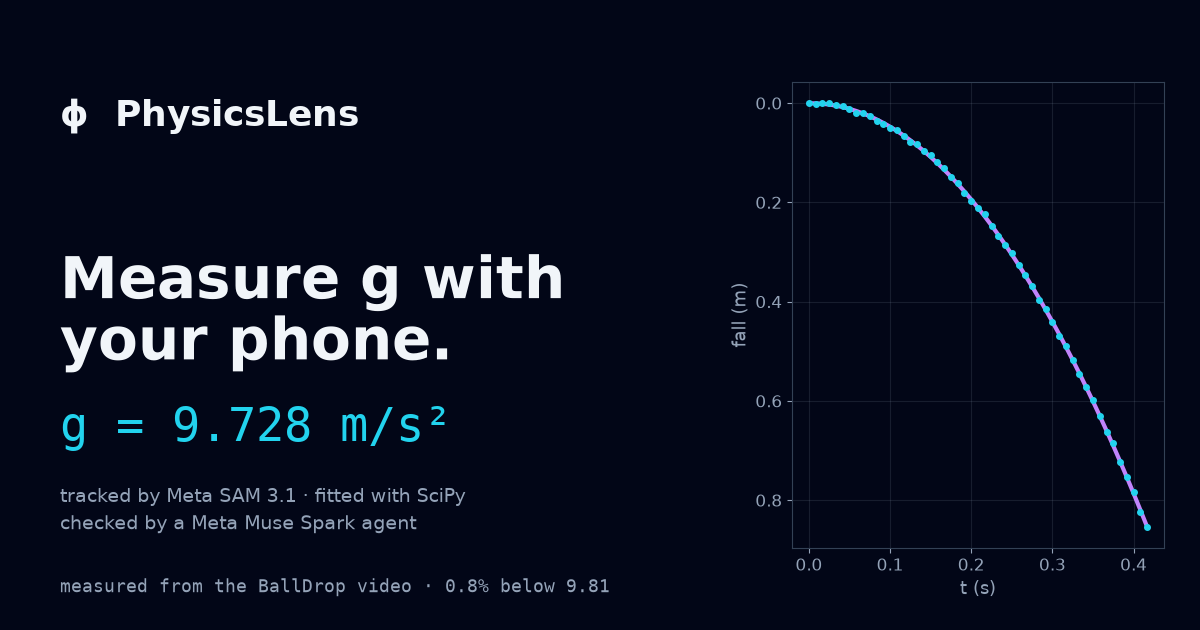
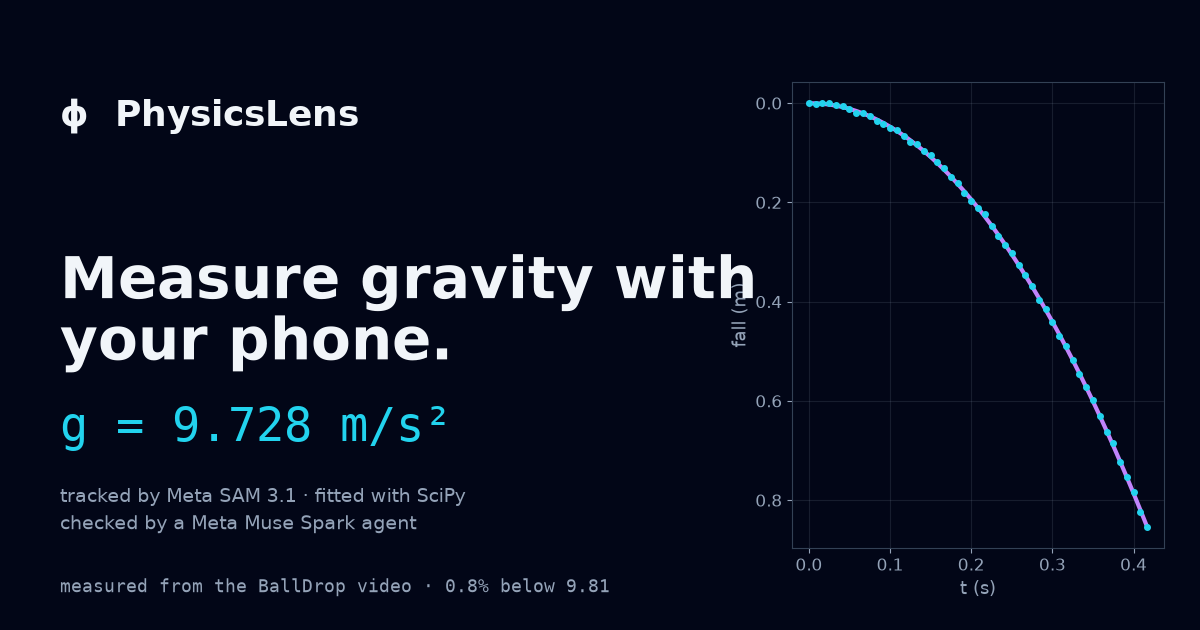
fix: SEO review: no silent site URL, Latin-only fonts, H1 says gravity
- prerender.mjs fails without SITE_URL (an https origin) instead of writing a
  placeholder host into the canonical link, og tags, sitemap and JSON-LD; the
  sitemap lastmod is the build date.
- The landing ships only the Latin Inter and JetBrains Mono files.
- JSON-LD: sameAs instead of codeRepository (not a SoftwareApplication field).
- H1 'Measure gravity with your phone.' and 'From the video' in the hero, to
  match the title and og:title; og:locale; the og image says the same.
- On the public page the hero button reads 'Get the code' (it scrolls there).

Changed region(s): [[0.3392, 0.3921, 0.6475, 0.5127]]

diff --git a/web/landing.html b/web/landing.html
@@ -14,14 +14,15 @@
     <meta property="og:type" content="website" />
     <meta property="og:site_name" content="PhysicsLens" />
     <meta property="og:url" content="__SITE_URL__/" />
-    <meta property="og:title" content="PhysicsLens: Measure g with your phone" />
+    <meta property="og:title" content="PhysicsLens: Measure gravity with your phone" />
+    <meta property="og:locale" content="en_US" />
     <meta property="og:description" content="Film a physics experiment. PhysicsLens tracks the ball, fits the physics with SciPy, and a Meta Muse Spark agent checks the result." />
     <meta property="og:image" content="__SITE_URL__/og-image.png" />
     <meta property="og:image:width" content="1200" />
     <meta property="og:image:height" content="630" />
     <meta property="og:image:alt" content="A tracked ball drop with its fitted fall curve, and g = 9.728 m/s² measured from the BallDrop video" />
     <meta name="twitter:card" content="summary_large_image" />
-    <meta name="twitter:title" content="PhysicsLens: Measure g with your phone" />
+    <meta name="twitter:title" content="PhysicsLens: Measure gravity with your phone" />
     <meta name="twitter:description" content="Phone video in, g out: tracked by Meta SAM 3.1, fitted with SciPy, checked by a Meta Muse Spark agent." />
     <meta name="twitter:image" content="__SITE_URL__/og-image.png" />
     <!--jsonld-->

diff --git a/web/src/pages/HomePage.tsx b/web/src/pages/HomePage.tsx
@@ -29,15 +29,15 @@ export default function HomePage({ local = true }: { local?: boolean }) {
         <div>
           <p className="label">Measure · fit · check</p>
           <h1 ref={heading} tabIndex={-1} className="mt-3 text-4xl font-semibold tracking-tight focus:outline-none sm:text-5xl lg:text-6xl">
-            Measure g with your phone.
+            Measure gravity with your phone.
           </h1>
           <p className="mt-4 max-w-xl text-lg leading-relaxed text-slate-300">
-            Film a ball drop, a throw or a pendulum. PhysicsLens tracks the ball, fits the physics with SciPy, and a Meta Muse Spark agent checks the fit before you see a
+            Film a ball drop, a throw or a pendulum. From the video, PhysicsLens tracks the ball, fits the physics with SciPy, and a Meta Muse Spark agent checks the fit before you see a
             number.
           </p>
           <div className="mt-6 flex flex-wrap gap-3">
             <a href={appLink("/analyze")} className="btn min-h-11 bg-gradient-to-r from-cyan-400 to-violet-500 px-5 text-base font-semibold text-slate-950 hover:brightness-110">
-              Analyze a video
+              {local ? "Analyze a video" : "Get the code"}
             </a>
             {local && <a href={href("/history")} className="btn-ghost min-h-11 px-5 text-base">See past runs</a>}
           </div>

diff --git a/web/src/App.tsx b/web/src/App.tsx
@@ -8,7 +8,7 @@ const HomePage = lazy(() => import("./pages/HomePage"));
 const HistoryPage = lazy(() => import("./pages/HistoryPage"));
 const RunDetailPage = lazy(() => import("./pages/RunDetailPage"));
 
-const TITLES = { home: "PhysicsLens: Measure g with your phone", analyze: "Analyze a video · PhysicsLens", history: "History · PhysicsLens", run: "Run · PhysicsLens" };
+const TITLES = { home: "PhysicsLens: Measure gravity with your phone", analyze: "Analyze a video · PhysicsLens", history: "History · PhysicsLens", run: "Run · PhysicsLens" };
 
 export default function App() {
   const route = useRoute();

diff --git a/web/src/landing/fonts.css b/web/src/landing/fonts.css
@@ -1,0 +1,10 @@
+/* Latin only for the public page: the other Inter subsets would ship unused (π and √ fall back to system fonts). */
+@font-face {
+  font-family: "Inter Variable";
+  font-style: normal;
+  font-display: swap;
+  font-weight: 100 900;
+  src: url("@fontsource-variable/inter/files/inter-latin-wght-normal.woff2") format("woff2-variations");
+  unicode-range: U+0000-00FF, U+0131, U+0152-0153, U+02BB-02BC, U+02C6, U+02DA, U+02DC, U+0304, U+0308, U+0329, U+2000-206F, U+20AC, U+2122, U+2191,
+    U+2193, U+2212, U+2215, U+FEFF, U+FFFD;
+}

diff --git a/web/src/landing/server.tsx b/web/src/landing/server.tsx
@@ -30,7 +30,7 @@ export function jsonLd(siteUrl: string): string {
         operatingSystem: "macOS, Linux, Windows (Python 3, runs locally)",
         isAccessibleForFree: true,
         offers: { "@type": "Offer", price: "0", priceCurrency: "USD" },
-        codeRepository: "https://github.com/adamd-dev/physicslens",
+        sameAs: ["https://github.com/adamd-dev/physicslens"],
         author: { "@type": "Person", name: "Adam D.", url: "https://github.com/adamd-dev" },
         featureList: [
           "Measure g from a ball drop video",

diff --git a/web/src/landing/main.tsx b/web/src/landing/main.tsx
@@ -1,7 +1,7 @@
 import { StrictMode } from "react";
 import { hydrateRoot } from "react-dom/client";
-import "@fontsource-variable/inter/wght.css";
-import "@fontsource/jetbrains-mono/400.css";
+import "./fonts.css";
+import "@fontsource/jetbrains-mono/latin-400.css";
 import "../index.css";
 import Landing from "./Landing";
 

diff --git a/web/scripts/og_image.py b/web/scripts/og_image.py
@@ -32,7 +32,7 @@ ax.set_xlabel("t (s)", color=MUTED, fontsize=13)
 ax.set_ylabel("fall (m)", color=MUTED, fontsize=13)
 
 fig.text(0.05, 0.80, "ϕ  PhysicsLens", color=INK, fontsize=26, weight="bold")
-fig.text(0.05, 0.60, "Measure g with\nyour phone.", color=INK, fontsize=42, weight="bold", va="top", linespacing=1.05)
+fig.text(0.05, 0.60, "Measure gravity with\nyour phone.", color=INK, fontsize=42, weight="bold", va="top", linespacing=1.05)
 # The headline number is the real BallDrop measurement; the plot beside it is an illustration.
 fig.text(0.05, 0.30, "g = 9.728 m/s²", color=DATA, fontsize=34, family="monospace")
 fig.text(0.05, 0.16, "tracked by Meta SAM 3.1 · fitted with SciPy\nchecked by a Meta Muse Spark agent", color=MUTED, fontsize=14, linespacing=1.4)
